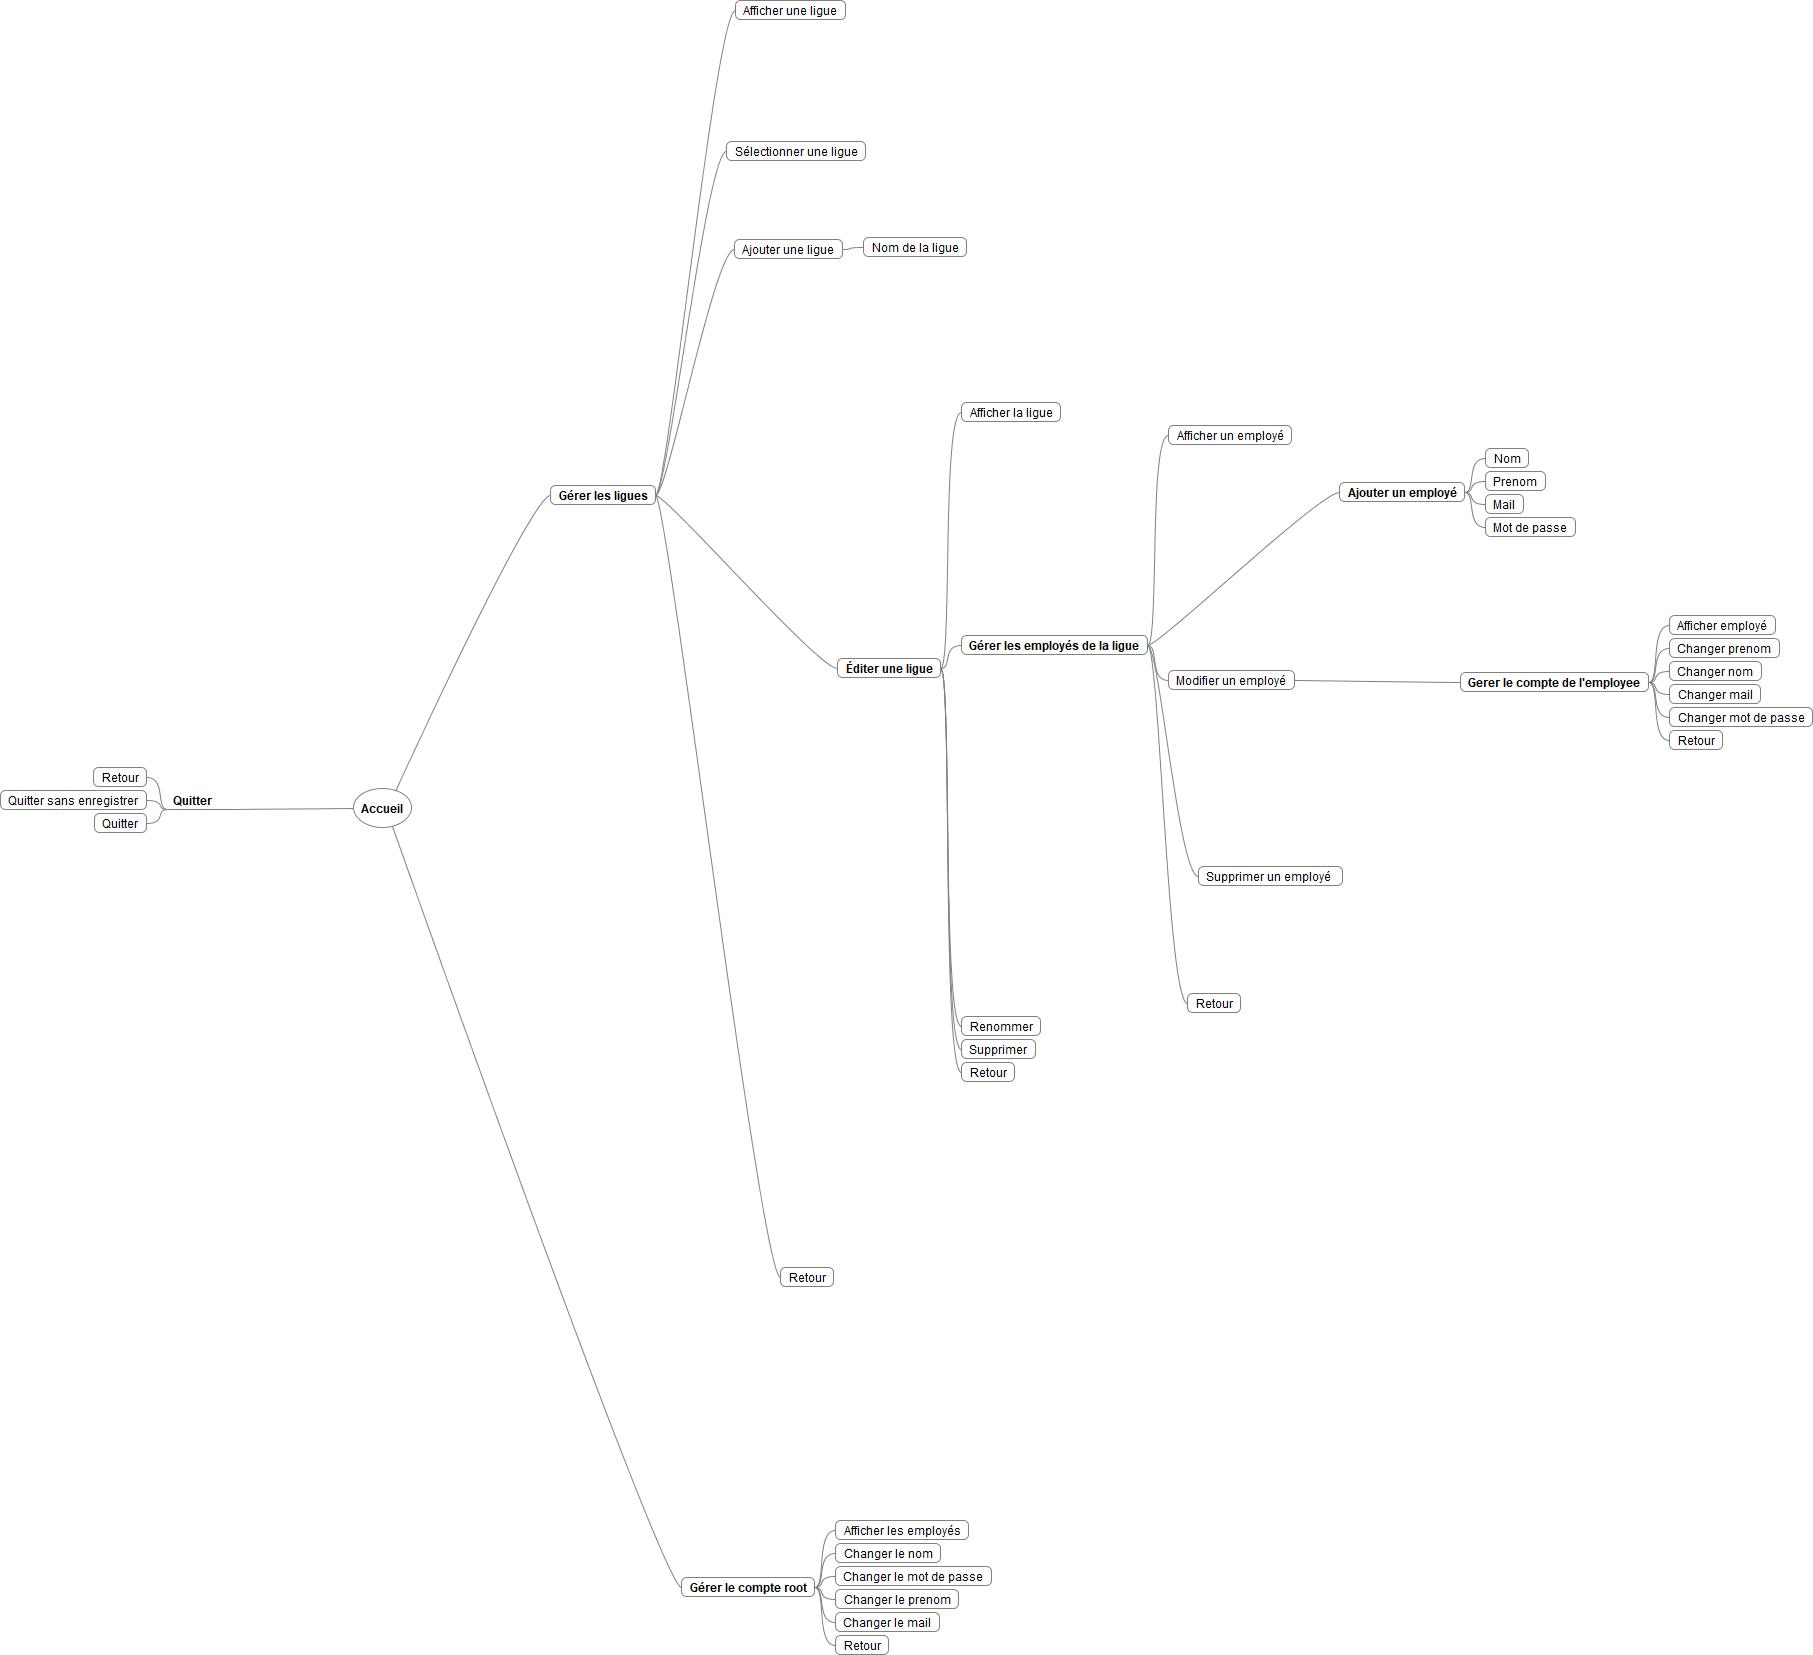
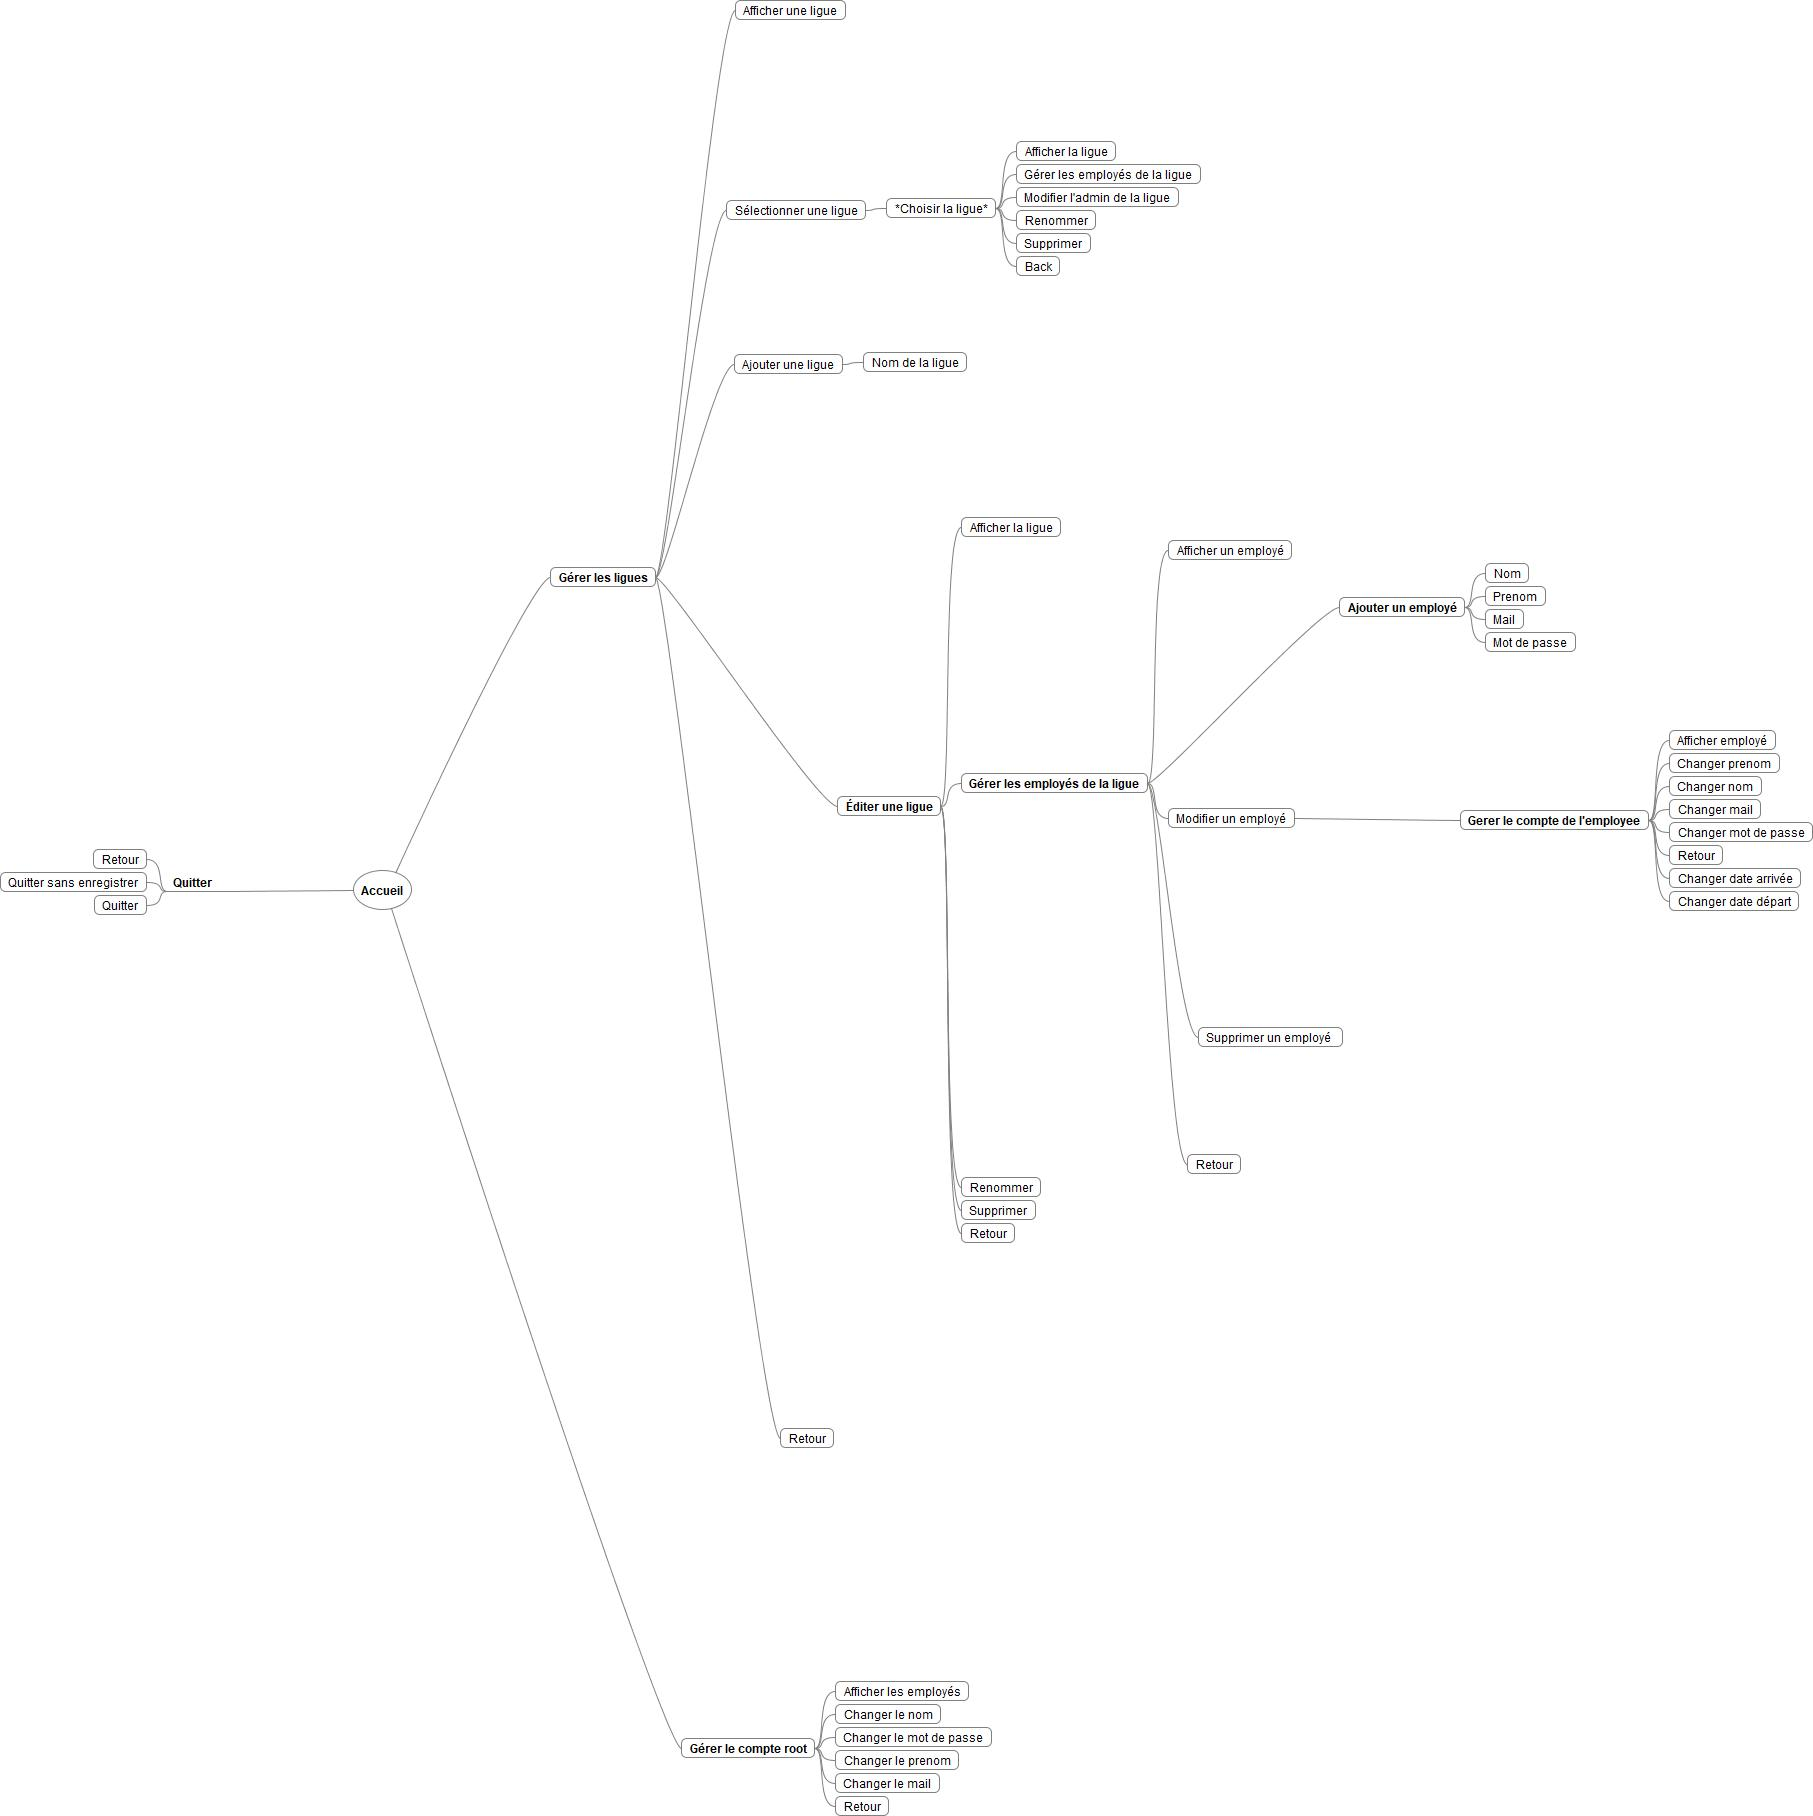
arbre heuristique

diff --git a/Personnel/docs/arbre_heuristique.mm b/Personnel/docs/arbre_heuristique.mm
@@ -5,7 +5,16 @@
 <node CREATED="1672823785510" HGAP="138" ID="ID_1431195871" MODIFIED="1672828833979" POSITION="right" STYLE="bubble" TEXT="G&#xe9;rer les ligues" VSHIFT="-230">
 <font BOLD="true" NAME="SansSerif" SIZE="12"/>
 <node CREATED="1672824205077" HGAP="79" ID="ID_9435941" MODIFIED="1672828833980" STYLE="bubble" TEXT="Afficher une ligue" VSHIFT="-118"/>
-<node CREATED="1672824208003" HGAP="70" ID="ID_1240723847" MODIFIED="1672828833980" STYLE="bubble" TEXT="S&#xe9;lectionner une ligue" VSHIFT="-63"/>
+<node CREATED="1672824208003" HGAP="70" ID="ID_1240723847" MODIFIED="1672828833980" STYLE="bubble" TEXT="S&#xe9;lectionner une ligue" VSHIFT="-63">
+<node CREATED="1679589285641" ID="ID_651707560" MODIFIED="1679589299169" TEXT="*Choisir la ligue*">
+<node CREATED="1679589332686" ID="ID_33698303" MODIFIED="1679589364455" TEXT="Afficher la ligue"/>
+<node CREATED="1679589335330" ID="ID_1986986965" MODIFIED="1679589391519" TEXT="G&#xe9;rer les employ&#xe9;s de la ligue"/>
+<node CREATED="1679589337501" ID="ID_1171536281" MODIFIED="1679589415664" TEXT="Modifier l&apos;admin de la ligue"/>
+<node CREATED="1679589340067" ID="ID_1492121462" MODIFIED="1679589401849" TEXT="Renommer"/>
+<node CREATED="1679589344481" ID="ID_983453107" MODIFIED="1679589398833" TEXT="Supprimer"/>
+<node CREATED="1679589355739" ID="ID_1283037516" MODIFIED="1679589358727" TEXT="Back"/>
+</node>
+</node>
 <node CREATED="1672824210553" HGAP="78" ID="ID_1778559492" MODIFIED="1672828833980" STYLE="bubble" TEXT="Ajouter une ligue" VSHIFT="10">
 <node CREATED="1672824287987" ID="ID_1012766578" MODIFIED="1672828833980" TEXT="Nom de la ligue"/>
 </node>
@@ -23,7 +32,7 @@
 <node CREATED="1672828424288" ID="ID_225717439" MODIFIED="1672828833980" TEXT="Mot de passe"/>
 </node>
 <node CREATED="1672828259798" ID="ID_1480513048" MODIFIED="1672828833980" TEXT="Modifier un employ&#xe9;">
-<node CREATED="1672828513335" HGAP="165" ID="ID_1399867731" MODIFIED="1672828888754" TEXT="Gerer le compte de l&apos;employee" VSHIFT="4">
+<node CREATED="1672828513335" HGAP="165" ID="ID_1399867731" MODIFIED="1679589144564" TEXT="Gerer le compte de l&apos;employee" VSHIFT="4">
 <font BOLD="true" NAME="SansSerif" SIZE="12"/>
 <node CREATED="1672828596781" ID="ID_990064207" MODIFIED="1672828833980" TEXT="Afficher employ&#xe9;"/>
 <node CREATED="1672828599991" ID="ID_1202769142" MODIFIED="1672828833980" TEXT="Changer prenom"/>
@@ -31,6 +40,8 @@
 <node CREATED="1672828605153" ID="ID_547652375" MODIFIED="1672828833980" TEXT="Changer mail"/>
 <node CREATED="1672828607715" ID="ID_1433350642" MODIFIED="1672828833980" TEXT="Changer mot de passe"/>
 <node CREATED="1672828610404" ID="ID_82479595" MODIFIED="1672828833980" TEXT="Retour"/>
+<node CREATED="1679589157544" ID="ID_639734397" MODIFIED="1679589173600" TEXT="Changer date arriv&#xe9;e"/>
+<node CREATED="1679589178467" ID="ID_690457731" MODIFIED="1679589187088" TEXT="Changer date d&#xe9;part"/>
 </node>
 </node>
 <node CREATED="1672828263355" HGAP="50" ID="ID_741368735" MODIFIED="1672828833980" TEXT="Supprimer un employ&#xe9; " VSHIFT="113"/>
